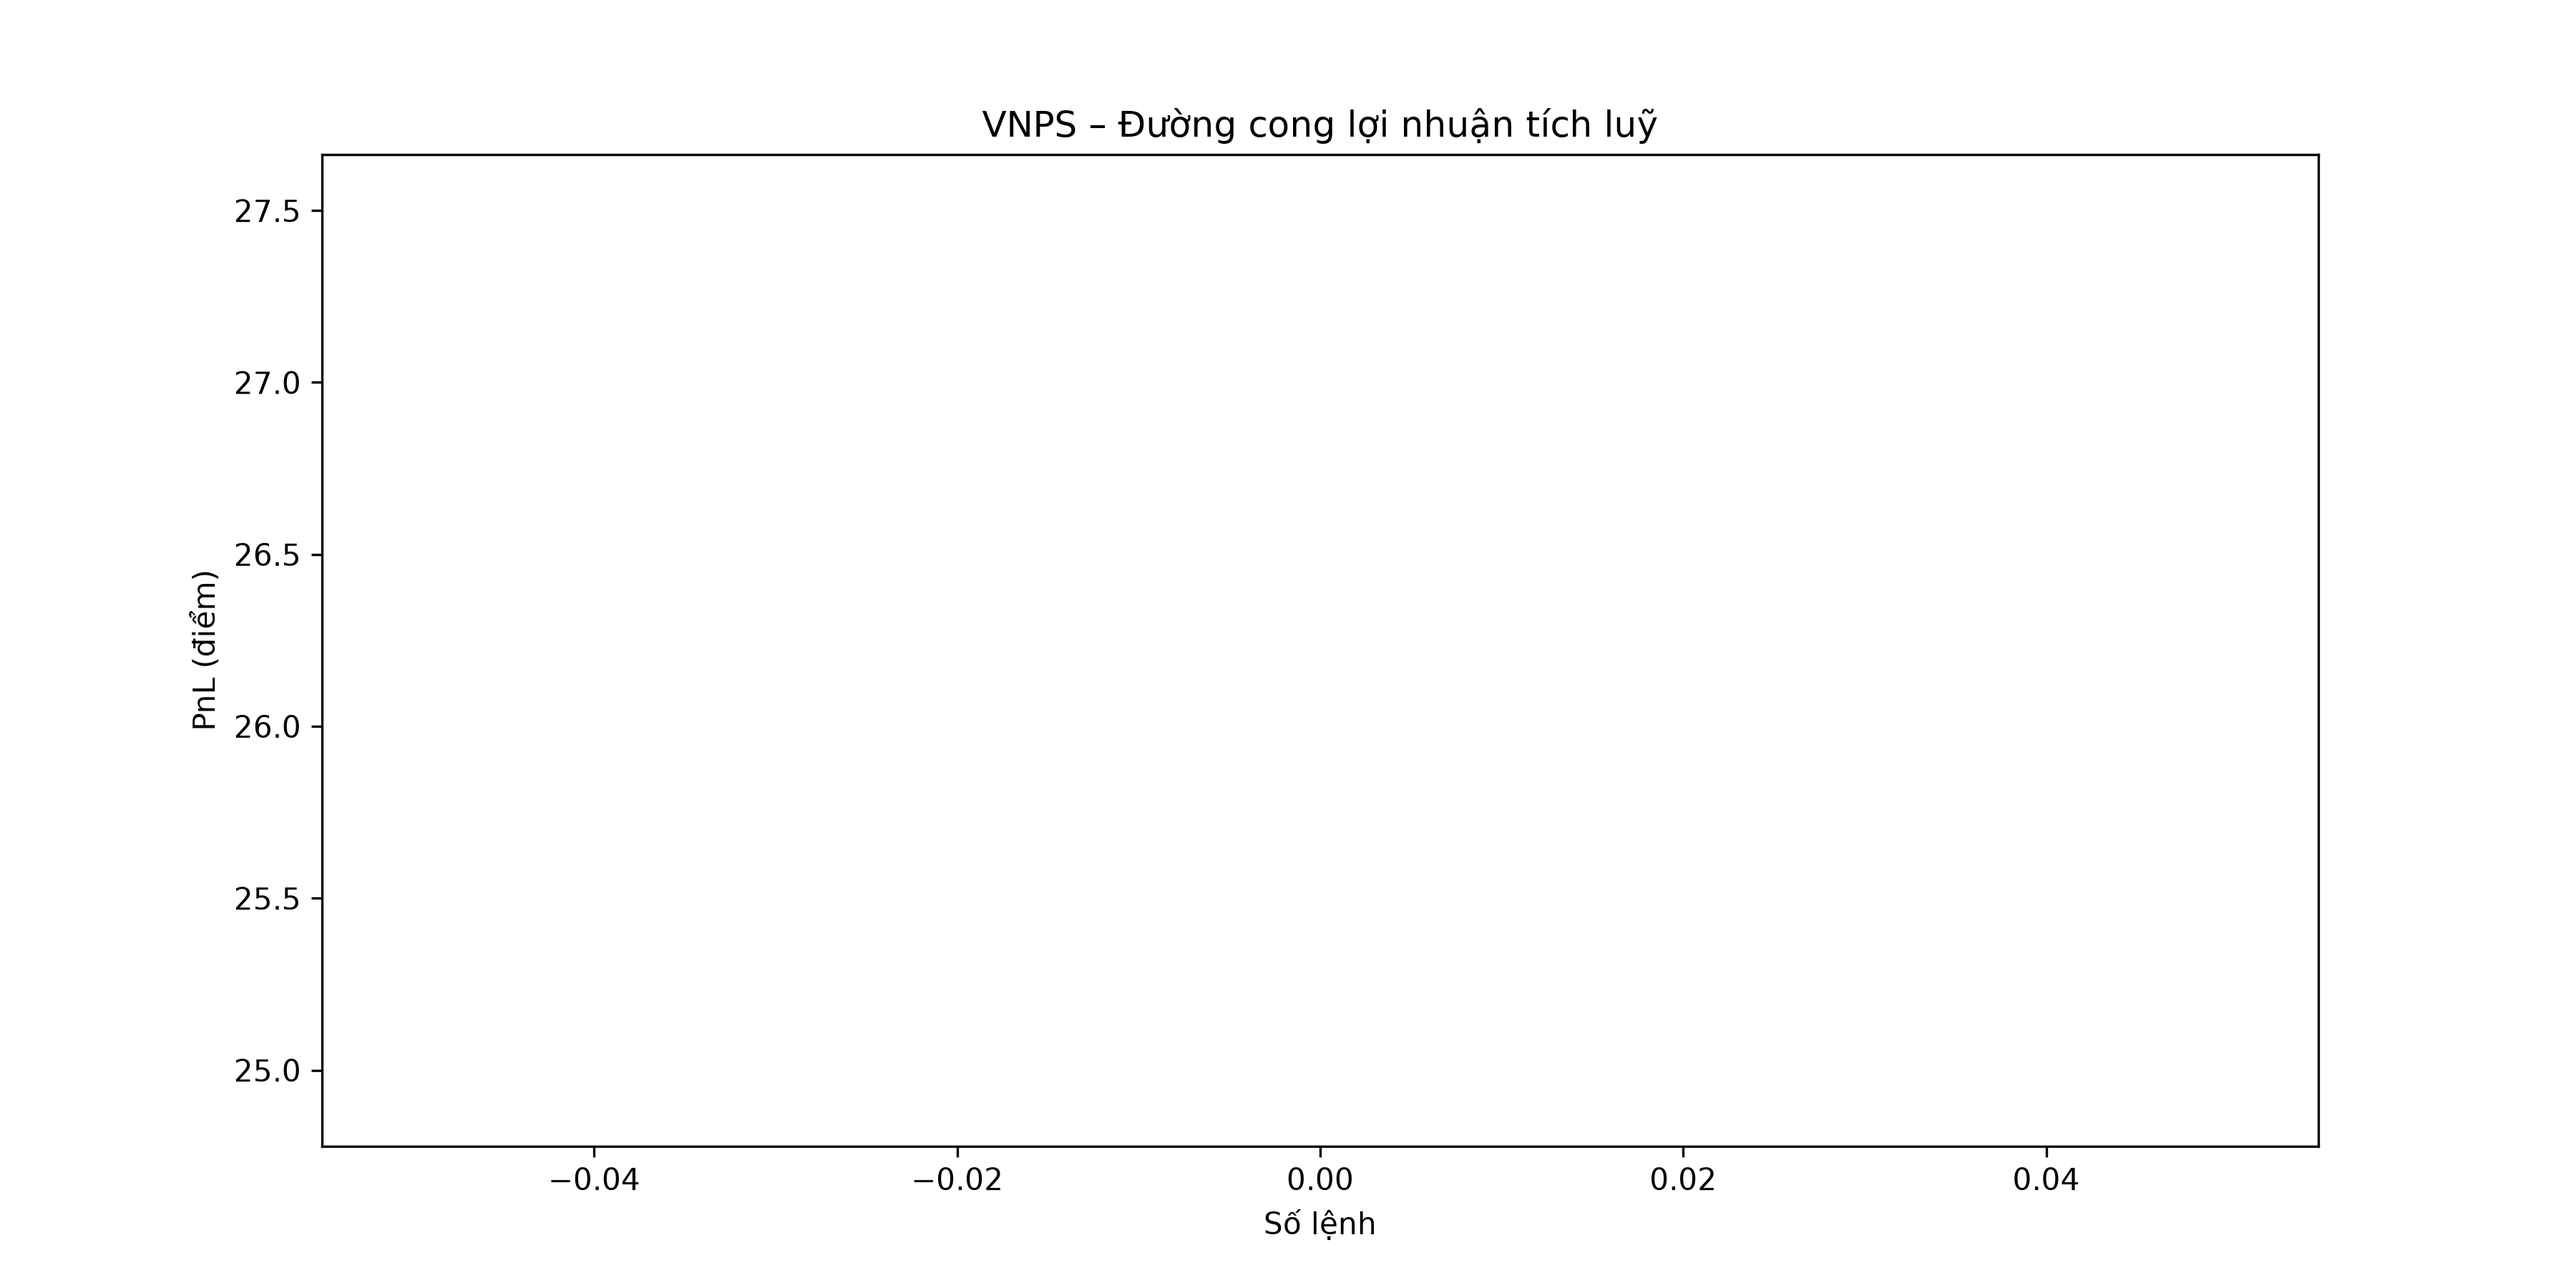
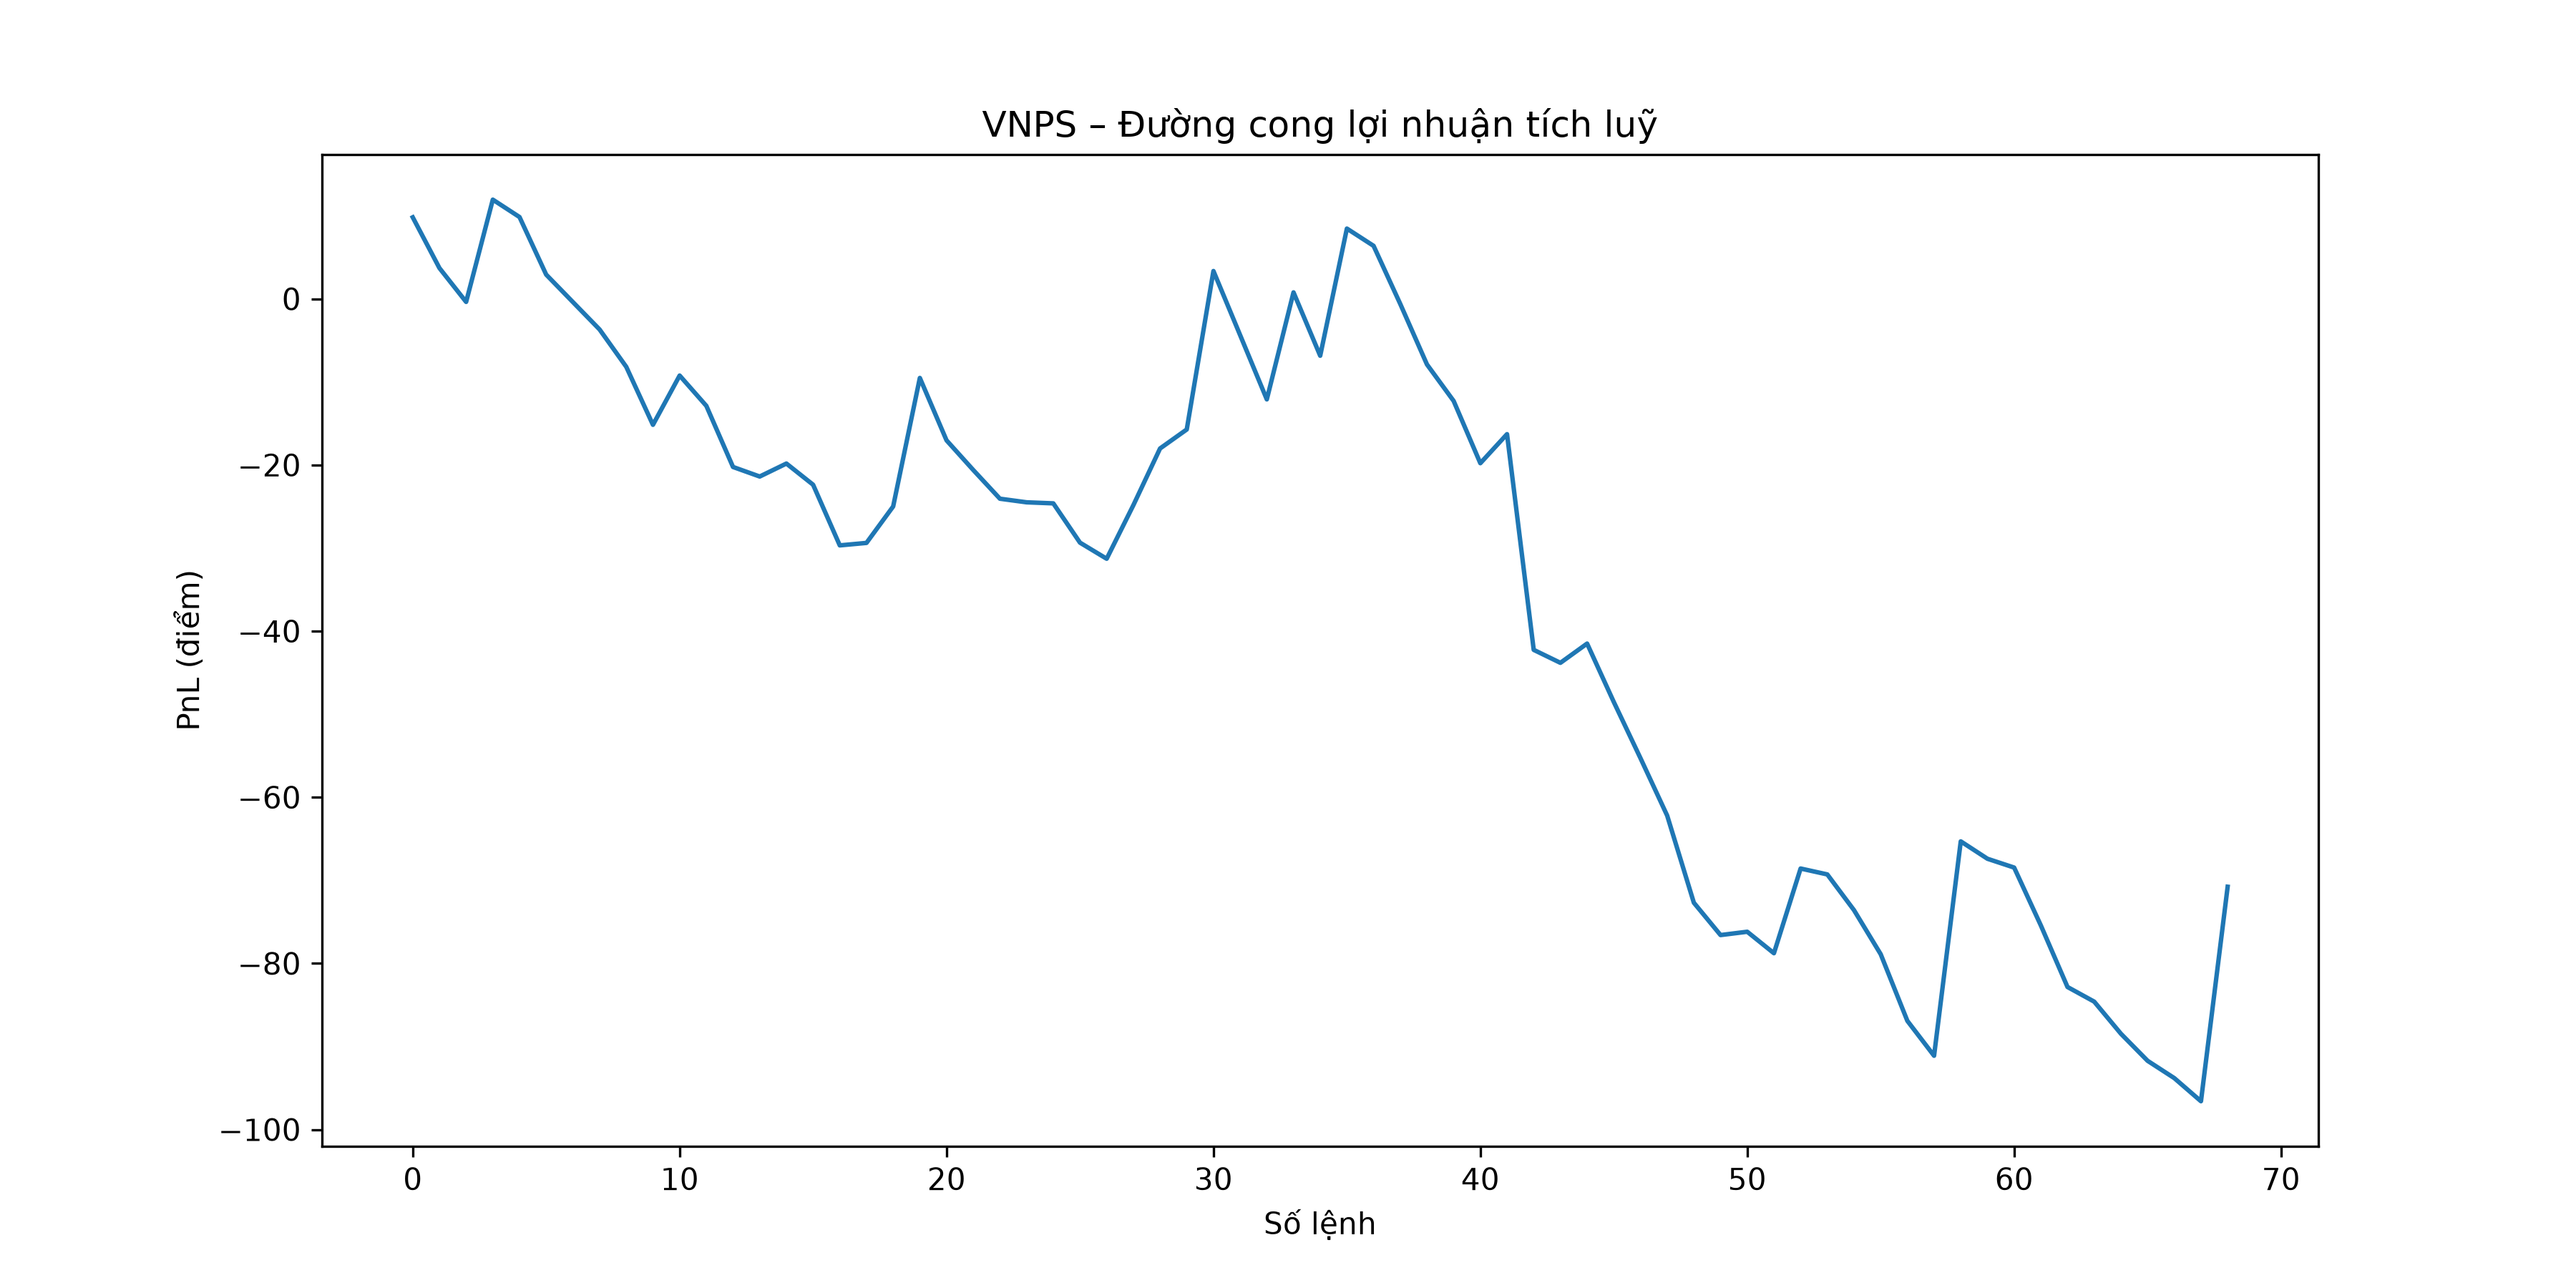
update some code

diff --git a/lib/stockHistory.py b/lib/stockHistory.py
@@ -1,0 +1,210 @@
+from datetime import date, datetime
+import time
+
+import numpy as np
+import pandas as pd
+import requests
+
+
+HEADERS = {
+    "User-Agent": (
+        "Mozilla/5.0 (Macintosh; Intel Mac OS X 10_11_5) "
+        "AppleWebKit/537.36 (KHTML, like Gecko) Chrome/50.0.2661.102 "
+        "Safari/537.36"
+    ),
+    "Origin": "https://iboard.ssi.com.vn",
+}
+VNDIRECT_DATA_HISTORY_URL = "https://dchart-api.vndirect.com.vn/dchart/history"
+
+SSI_HEADERS = {
+    "Connection": "keep-alive",
+    "sec-ch-ua": '"Not A;Brand";v="99", "Chromium";v="98", "Google Chrome";v="98"',
+    "DNT": "1",
+    "sec-ch-ua-mobile": "?0",
+    "X-Fiin-Key": "KEY",
+    "Content-Type": "application/json",
+    "Accept": "application/json",
+    "X-Fiin-User-ID": "ID",
+    "User-Agent": (
+        "Mozilla/5.0 (Windows NT 10.0; Win64; x64) "
+        "AppleWebKit/537.36 (KHTML, like Gecko) Chrome/98.0.4758.102 "
+        "Safari/537.36"
+    ),
+    "X-Fiin-Seed": "SEED",
+    "sec-ch-ua-platform": "Windows",
+    "Origin": "https://iboard.ssi.com.vn",
+    "Sec-Fetch-Site": "same-site",
+    "Sec-Fetch-Mode": "cors",
+    "Sec-Fetch-Dest": "empty",
+    "Referer": "https://iboard.ssi.com.vn/",
+    "Accept-Language": "en-US,en;q=0.9,vi-VN;q=0.8,vi;q=0.7",
+}
+SSI_DATA_HISTORY_URL = "https://iboard-api.ssi.com.vn/statistics/charts/history"
+
+DNSE_DATA_HISTORY_URL_V2 = "https://api.dnse.com.vn/chart-api/v2/ohlcs/derivative"
+
+VPS_DATA_HISTORY_URL = "https://histdatafeed.vps.com.vn/tradingview/history"
+VPS_HEADERS = {
+    "host": "histdatafeed.vps.com.vn",
+    "accept": "application/json, text/plain, */*",
+    "accept-language": "en-US,en;q=0.9",
+    "dnt": "1",
+    "origin": "https://chart.vps.com.vn",
+    "referer": "https://chart.vps.com.vn/",
+    "sec-ch-ua": '"Edge";v="114", "Chromium";v="114", "Not=A?Brand";v="24"',
+    "sec-ch-ua-mobile": "?0",
+    "sec-ch-ua-platform": '"Windows"',
+    "sec-fetch-dest": "empty",
+    "sec-fetch-mode": "cors",
+    "sec-fetch-site": "same-site",
+    "user-agent": (
+        "Mozilla/5.0 (X11; Linux x86_64) AppleWebKit/537.36 "
+        "(KHTML, like Gecko) Chrome/132.0.0.0 Safari/537.36"
+    ),
+}
+
+YEAR_CODE_MAP = "0123456789ABCDEFGHJKLMNPQRSTVWXYZ"
+MONTH_CODE_MAP = {
+    1: "1",
+    2: "2",
+    3: "3",
+    4: "4",
+    5: "5",
+    6: "6",
+    7: "7",
+    8: "8",
+    9: "9",
+    10: "A",
+    11: "B",
+    12: "C",
+}
+
+
+def get_data_from_ssi(params):
+    return requests.get(SSI_DATA_HISTORY_URL, params=params, headers=SSI_HEADERS, timeout=7)
+
+
+def get_data_from_vndrirect(params):
+    return requests.get(VNDIRECT_DATA_HISTORY_URL, params=params, headers=HEADERS, timeout=7)
+
+
+def get_data_from_dnse(params):
+    params.update({"symbol": "VN30F1M"})
+    return requests.get(DNSE_DATA_HISTORY_URL_V2, params=params, headers=HEADERS, timeout=7)
+
+
+def get_data_from_vps(params):
+    params.update({"symbol": "VN30F1M"})
+    return requests.get(VPS_DATA_HISTORY_URL, params=params, headers=VPS_HEADERS, timeout=7)
+
+
+def get_vn30f1m_ohcl_history_data(
+    ticker="VN30F1M",
+    resolution=1,
+    from_=1,
+    broker="DNSE",
+    keep_time=False,
+):
+    params = {
+        "resolution": resolution,
+        "symbol": ticker,
+        "from": from_,
+        "to": int(time.time()),
+    }
+
+    try:
+        if broker == "DNSE":
+            response = get_data_from_dnse(params)
+        elif broker == "SSI":
+            response = get_data_from_ssi(params)
+        elif broker == "VPS":
+            response = get_data_from_vps(params)
+        else:
+            response = get_data_from_vndrirect(params)
+    except requests.exceptions.Timeout:
+        print("Time out.")
+        return []
+
+    if response.status_code != 200:
+        return []
+
+    payload = response.json()
+    if broker == "SSI":
+        payload = payload["data"]
+
+    dataset = pd.DataFrame(
+        {
+            "Time": np.array(payload["t"]).astype(int),
+            "Open": np.array(payload["o"]).astype(float),
+            "High": np.array(payload["h"]).astype(float),
+            "Low": np.array(payload["l"]).astype(float),
+            "Close": np.array(payload["c"]).astype(float),
+            "Volume": np.array(payload["v"]).astype(int),
+        },
+        columns=["Time", "Open", "High", "Low", "Close", "Volume"],
+    )
+    dataset["DateStr"] = dataset.apply(
+        lambda row: datetime.fromtimestamp(row["Time"]).strftime("%Y-%m-%d, %H:%M:%S"),
+        axis=1,
+    )
+    dataset["Date"] = pd.to_datetime(dataset["DateStr"])
+
+    ticker_data = dataset.set_index("Date")
+    if not keep_time:
+        ticker_data.drop(["Time"], axis=1, inplace=True)
+    ticker_data.drop(["DateStr"], axis=1, inplace=True)
+    return ticker_data
+
+
+def get_this_month_ticker():
+    if datetime.now().day < 14:
+        return "VN30F" + datetime.now().strftime("%y%m")
+
+    cross_thursday_time = 0
+    today = datetime.now().day
+    month = datetime.now().month
+    year = datetime.now().year
+
+    for day in range(1, today):
+        if date(day=day, month=month, year=year).weekday() == 3:
+            cross_thursday_time += 1
+
+    if cross_thursday_time < 3:
+        return "VN30F" + datetime.now().strftime("%y%m")
+
+    next_month = datetime.now().month + 1
+    year_code = datetime.now().strftime("%y")
+    if next_month < 10:
+        next_month = "0" + str(next_month)
+    elif next_month > 12:
+        next_month = "01"
+        year_code = int(year_code) + 1
+
+    return "VN30F" + str(year_code) + str(next_month)
+
+
+def get_new_vn30f1m_ticker():
+    current_year = datetime.now().strftime("%Y")
+    current_month = datetime.now().strftime("%m")
+
+    if datetime.now().day >= 14:
+        cross_thursday_time = 0
+        today = datetime.now().day
+        month = datetime.now().month
+        year = datetime.now().year
+        for day in range(1, today):
+            if date(day=day, month=month, year=year).weekday() == 3:
+                cross_thursday_time += 1
+
+        if cross_thursday_time >= 3:
+            next_month = datetime.now().month + 1
+            year_code = datetime.now().strftime("%Y")
+            if next_month > 12:
+                next_month = "1"
+                current_year = int(year_code) + 1
+            current_month = next_month
+
+    year_diff = int(current_year) - 2010
+    year_code = YEAR_CODE_MAP[year_diff]
+    month_code = MONTH_CODE_MAP[int(current_month)]
+    return "41I1" + str(year_code) + str(month_code) + "000"

diff --git a/strategies/vnps/backtest/vnps.py b/strategies/vnps/backtest/vnps.py
@@ -18,6 +18,9 @@ plt.rcParams['figure.dpi'] = 120
 warnings.filterwarnings('ignore')
 
 BACKTEST_DIR = os.path.dirname(os.path.abspath(__file__))
+INITIAL_CASH = 1500
+COMMISSION = 0.00027
+MARGIN = 0.1
 
 
 class MainStrategy(Strategy):
@@ -30,7 +33,6 @@ class MainStrategy(Strategy):
     strategy = ''
 
     def init(self):
-        self._broker._cash = 1500
         self.strategy = ''
         super().init()
 
@@ -137,8 +139,18 @@ def run(args):
 
     signals_data.dropna(inplace=True)
     print(f"[backtest] Dữ liệu sau khi lọc NaN: {len(signals_data)} nến")
+    for column in ("ema_signal", "macd_signal", "predict_is_max"):
+        if column in signals_data:
+            print(f"[backtest] {column}: {signals_data[column].value_counts(dropna=False).to_dict()}")
 
-    bt = Backtest(signals_data, MainStrategy, commission=0.00027, exclusive_orders=True)
+    bt = Backtest(
+        signals_data,
+        MainStrategy,
+        cash=INITIAL_CASH,
+        commission=COMMISSION,
+        margin=MARGIN,
+        exclusive_orders=True,
+    )
     stats = bt.run()
 
     _print_report(stats)

diff --git a/lib/__init__.py b/lib/__init__.py
@@ -1,0 +1,2 @@
+"""Shared local integrations used by strategy modules."""
+
